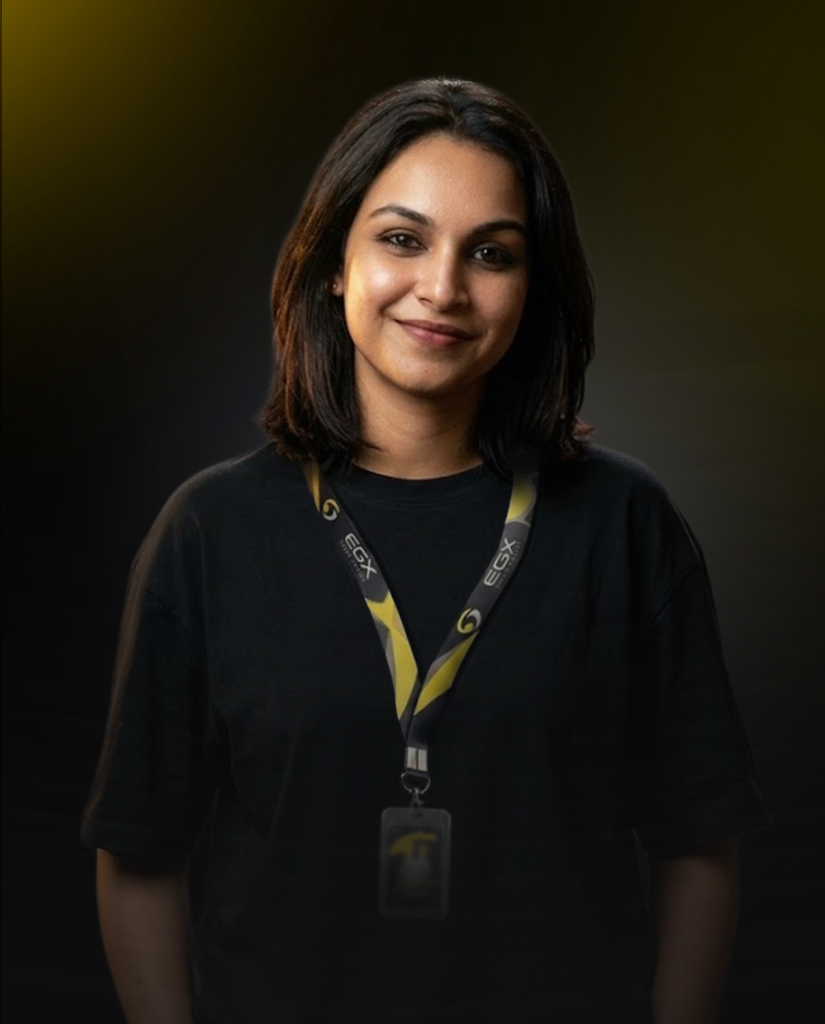
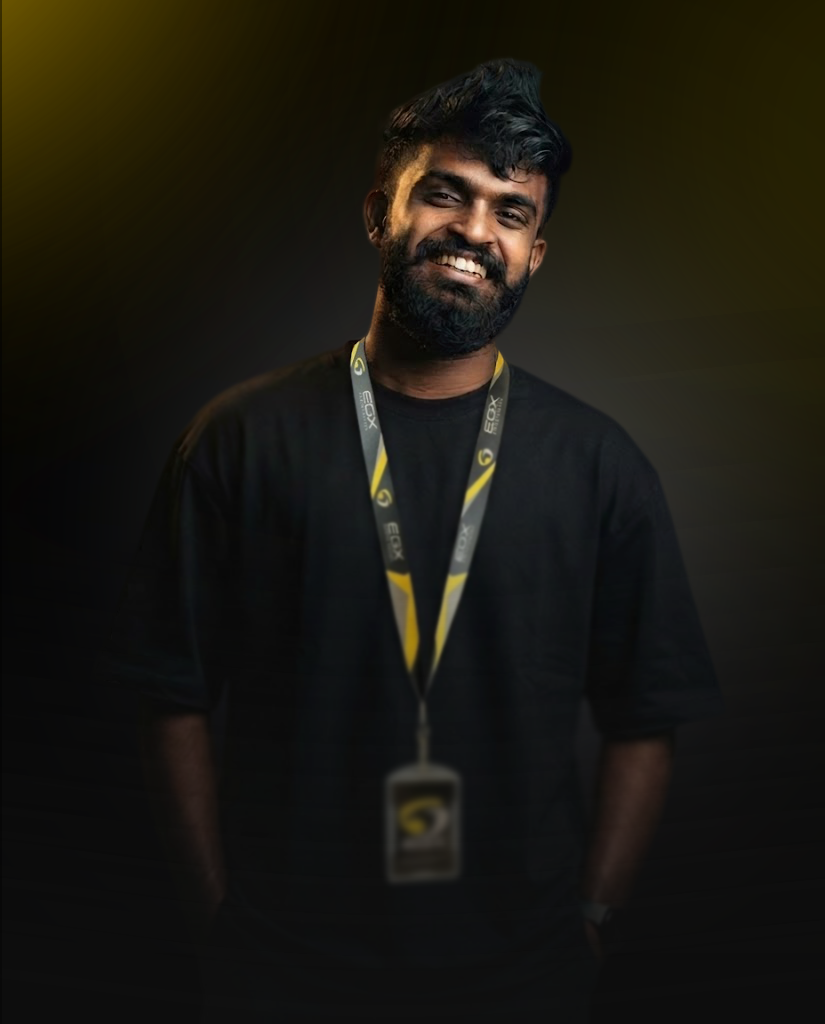
CONTACT US

diff --git a/pages/about.html b/pages/about.html
@@ -723,33 +723,34 @@ Our customers' needs and strategic ambition are at the centre of all we do. In a
         name: "Menoli",
         position: "Assistant – Finance"
       },
+     
       {
+        name: "Anuki",
+        position: "Assistant – Finance"
+      },
+       {
         name: "Yasith",
         position: "Forklift Operator"
       },
       {
-        name: "Anuki",
-        position: "Credit controller"
-      },
-      {
         name: "Lenuri",
-        position: "cs"
+        position: "Assistant – Customer Service"
       },
       {
         name: "Nethul",
-        position: "cs"
+        position: "Assistant – Customer Service"
       },
       {
         name: "Mithesh",
-        position: "cs"
+        position: "Assistant – Business Developments"
       },
       {
         name: "Althaf",
-        position: "cs"
+        position: "Assistant – Business Developments"
       },
       {
         name: "Ganguli",
-        position: "cs"
+        position: "Assistant - Business Developments"
       }
     ];
 

diff --git a/pages/contact.html b/pages/contact.html
@@ -323,7 +323,7 @@
   <script src="https://cdn.jsdelivr.net/npm/@emailjs/browser@4/dist/email.min.js"></script>
 
   <script>
-    emailjs.init("ocw9B9BGN-VDbPhJi");
+    emailjs.init("QbNnAD7tt4lwIFntN");
 
     document.getElementById("contactForm").addEventListener("submit", async function (e) {
       e.preventDefault();

diff --git a/pages/services.html b/pages/services.html
@@ -69,7 +69,7 @@
 
 <!-- HERO -->
 <section class="services-hero">
-    <img src="../images/ServicePage/banner.png" alt="EGX Team">
+    <img src="../images/ServicePage/banner.webp" alt="EGX Team">
 
     <div class="hero-overlay"></div>
 
